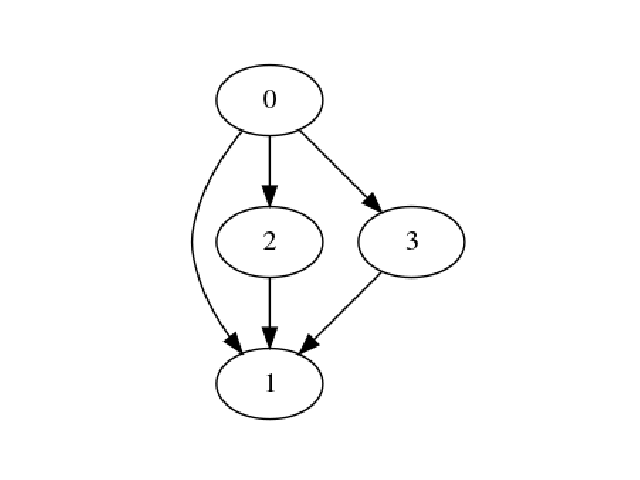
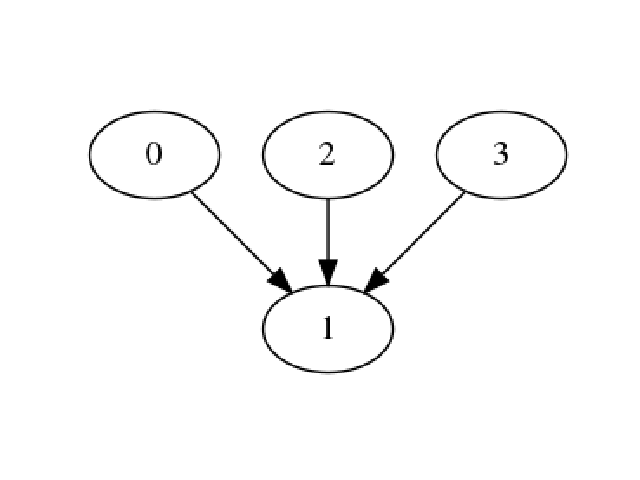
widened RandGrowTiny

diff --git a/train_grownet_cifar.py b/train_grownet_cifar.py
@@ -87,7 +87,7 @@ def main(args):
         # Model from existing random graphs
         Gs, nmaps = checkpoint['graphs']
         cfg = {
-            'depthrate': 0.2,
+            'depthrate': args.depthrate,
         }
         if args.model in ['tiny16', 'tiny']:
             model, _, _ = RandGrowTinyNormal(
@@ -125,7 +125,7 @@ def main(args):
         print('==> Generating new model..')
 
         cfg = {
-            'depthrate': 0.2,
+            'depthrate': args.depthrate,
         }
         if args.model in ['tiny16', 'tiny']:
             model, _, _ = RandGrowTinyNormal(
@@ -183,23 +183,6 @@ def main(args):
                 val_logger=val_logger)
 
         # Save after test
-        mismatch_flag = False
-        match = { k: 0 for k, v in optimizer.state.items() }
-        for p in model.named_parameters():
-            if p[1] in match:
-                match[p[1]] = 1
-            else:
-                mismatch_flat = True
-                print('in model not in optim', p[0])
-        for k, v in match.items():
-            if v == 0:
-                mismatch_flat = True
-                print('in optim not in model', k)
-        if mismatch_flag:
-            for lid, layer in enumerate([model.module.layer2, model.module.layer3, model.module.layer4]):
-                for nid in range(3):
-                    print('layer' + str(lid) + '.nodes.' + str(nid) + '.w')
-                    print(layer.nodes[nid].w)
         save('done' + str(epoch), model, optimizer, avgloss, epoch + 1)
 
         # Do not expand at the last epoch
@@ -211,8 +194,11 @@ def main(args):
 
                 # Cache input weights
                 group_in_weights = optimizer.param_groups[2]
-                input_weight_bufs = { p[0]: (group_in_weights['params'].index(p[1]), p[1]) \
-                        for p in model.named_parameters() if p[0].endswith('.w') }
+                id_in_weights = [id(p) for p in group_in_weights['params']]
+                input_weight_bufs = {}
+                for p in model.named_parameters():
+                    if p[0].endswith('.w'):
+                        input_weight_bufs[p[0]] = (id_in_weights.index(id(p[1])), p[1])
 
                 # Grow network a single step
                 expand_info = model.expand()
@@ -425,7 +411,7 @@ def show_graph(label, model, batch_size, feature_size=32, view=False, wrapped=Tr
     x = torch.randn(batch_size, 3, feature_size, feature_size).cuda()
     for i, G in enumerate(Gs):
         draw_graph(G, view=view, label=(os.path.join(save_dir, label + '.' + str(i))))
-    draw_network(model, x, view=view, label=label)
+    draw_network(model, x, view=view, label=(os.path.join(save_dir, label)))
 
 
 if __name__ == '__main__':
@@ -437,6 +423,8 @@ if __name__ == '__main__':
     parser.add_argument('--model', default='tiny', type=str,
             choices=('tiny16', 'tiny', 'tinywide'),
             help='model to run')
+    parser.add_argument('--depthrate', default=0.2, type=float,
+            help='increase depth probability')
     parser.add_argument('--drop-edge', default=0, type=float,
             help='drop rate of edges, does not apply to regular regime')
     parser.add_argument('--dropout', default=0, type=float,

diff --git a/randwire.py b/randwire.py
@@ -257,7 +257,7 @@ class RandWireTiny(nn.Module):
                 SeparableConv(3, half_planes, stride=2),
                 nn.BatchNorm2d(half_planes))
 
-        self.layer2 = RandomNetwork(half_planes, planes, Gs[0], drop_edge=drop_edge, nmap=nmaps[0])
+        self.layer2 = RandomNetwork(half_planes, planes, Gs[0], drop_edge=drop_edge, nmap=nmaps[0], downsample=False)
         self.layer3 = RandomNetwork(planes, 2 * planes, Gs[1], drop_edge=drop_edge, nmap=nmaps[1])
         self.layer4 = RandomNetwork(2 * planes, 4 * planes, Gs[2], drop_edge=drop_edge, nmap=nmaps[2])
         #  self.layer5 = RandomNetwork(4 * planes, 8 * planes, Gs[3], drop_edge=drop_edge, nmap=nmaps[3])

diff --git a/randgrow.py b/randgrow.py
@@ -47,7 +47,7 @@ class RandGrowTiny(nn.Module):
                 SeparableConv(3, half_planes, stride=2),
                 nn.BatchNorm2d(half_planes))
 
-        self.layer2 = RandomNetwork(half_planes, planes, Gs[0], drop_edge=drop_edge, nmap=nmaps[0])
+        self.layer2 = RandomNetwork(half_planes, planes, Gs[0], drop_edge=drop_edge, nmap=nmaps[0], downsample=False)
         self.layer3 = RandomNetwork(planes, 2 * planes, Gs[1], drop_edge=drop_edge, nmap=nmaps[1])
         self.layer4 = RandomNetwork(2 * planes, 4 * planes, Gs[2], drop_edge=drop_edge, nmap=nmaps[2])
 
